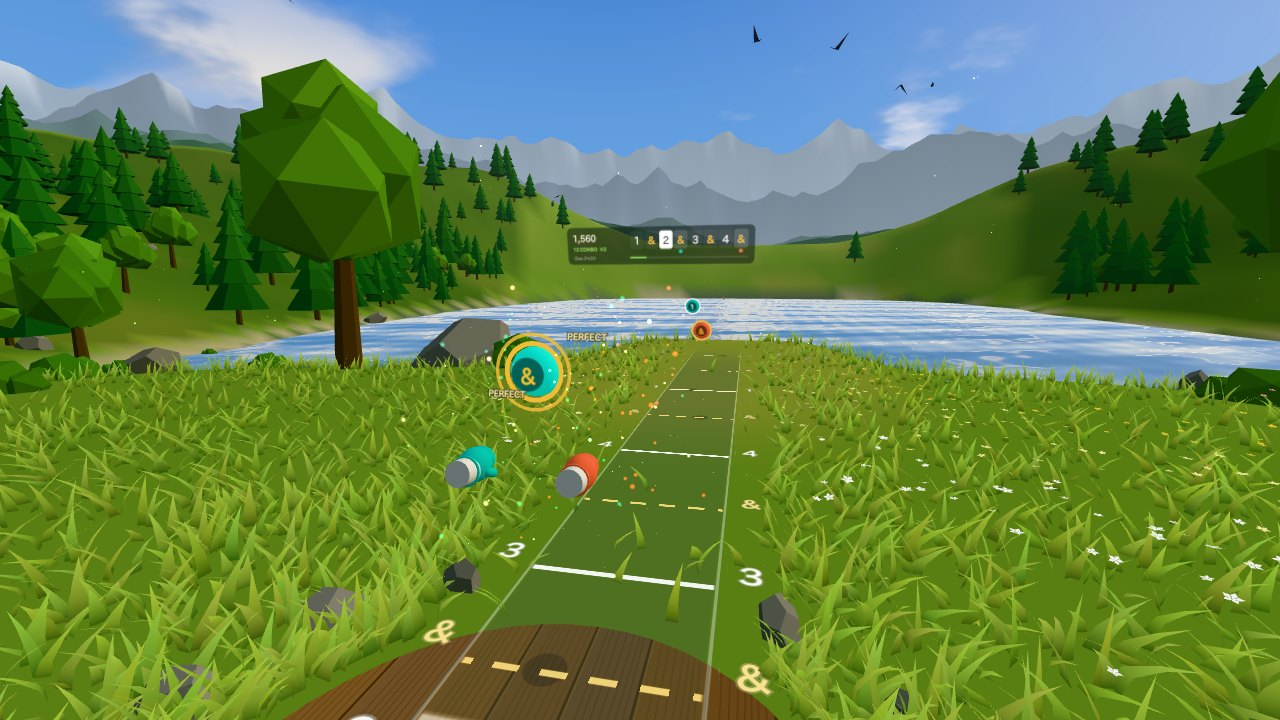
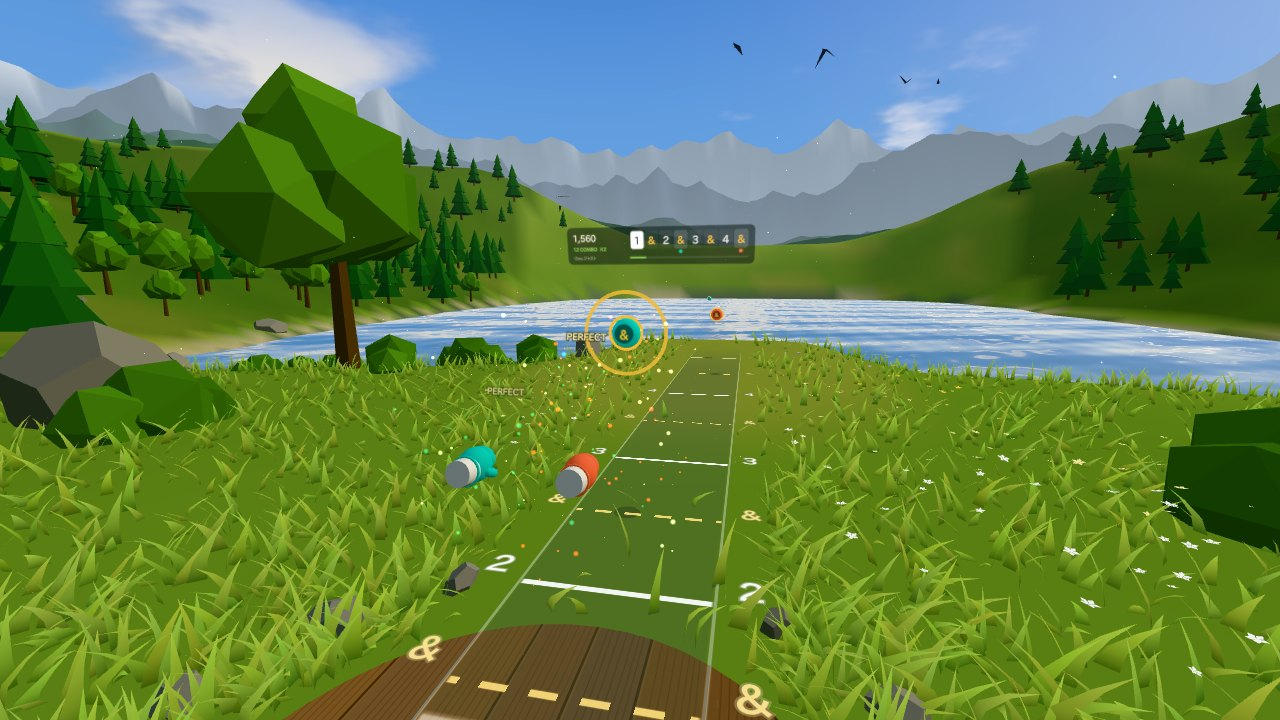
OFFBEAT GROVE: lighter forest and meadow for Quest 3 at 90 Hz
About 250k triangles and 40 draw calls per eye while playing (low: 180k).

Claude-Session: https://claude.ai/code/session_01H98kDxnrHuErgnfDtvcigN

diff --git a/offbeat-grove/js/world.js b/offbeat-grove/js/world.js
@@ -4,7 +4,8 @@
 // distance at every scale: grass and flowers at your feet (stereo depth), the forest on both hillsides,
 // the lake, then the ridges fading into the haze.
 //
-// Budget for Quest 3 at 90 Hz: ~30 draw calls, ~250k triangles, no shadows, no post-processing.
+// Budget for Quest 3 at 90 Hz: ~40 draw calls and ~250k triangles per eye with the game running ("low": ~170k),
+// no shadows, no post-processing.
 // Lambert lighting on trees and rocks, everything else has its light baked into vertex colours.
 import * as THREE from 'three';
 import { bakeSky, skyDome, SKY_UV } from './sky.js';
@@ -64,8 +65,8 @@ export class World {
     this.addMountains();
     this.addLake();
     this.addTrees(hi ? 1 : 0.55);
-    this.addGrass(hi ? 13000 : 6500);
-    this.addFlowers(hi ? 2400 : 1200);
+    this.addGrass(hi ? 10000 : 6000);
+    this.addFlowers(hi ? 1800 : 1000);
     this.addRocks();
     this.addDeck();
     this.addBirds();
@@ -247,11 +248,10 @@ export class World {
     const R = this.R;
     // conifer: trunk + four cones, faceted
     const con = mergeGeos([
-      colored(new THREE.CylinderGeometry(0.1, 0.16, 1.6, 6).translate(0, 0.8, 0), '#5a3d28'),
-      colored(new THREE.ConeGeometry(1.5, 2.4, 7).translate(0, 2.0, 0), '#2f5a32'),
-      colored(new THREE.ConeGeometry(1.22, 2.1, 7).translate(0, 3.1, 0), '#356637'),
-      colored(new THREE.ConeGeometry(0.92, 1.8, 7).translate(0, 4.1, 0), '#3b7039'),
-      colored(new THREE.ConeGeometry(0.55, 1.3, 7).translate(0, 5.0, 0), '#43793d'),
+      colored(new THREE.CylinderGeometry(0.1, 0.16, 1.6, 5, 1, true).translate(0, 0.8, 0), '#5a3d28'),
+      colored(new THREE.ConeGeometry(1.5, 2.6, 6).translate(0, 2.1, 0), '#2f5a32'),
+      colored(new THREE.ConeGeometry(1.12, 2.3, 6).translate(0, 3.4, 0), '#366838'),
+      colored(new THREE.ConeGeometry(0.7, 1.9, 6).translate(0, 4.6, 0), '#40763c'),
     ]);
     // broadleaf: trunk + clustered blobs
     const leaf = (r, x, y, z, c) => colored(new THREE.IcosahedronGeometry(r, 0).translate(x, y, z), c);
@@ -279,7 +279,7 @@ export class World {
       this.scene.add(im);
       return im;
     };
-    const conPts = this.scatter(Math.round(1500 * k), 14, 236, (x, z) => forestAt(x, z) * (0.45 + 0.55 * smoothstep(20, 60, Math.abs(x) + Math.max(0, z))), 1.1);
+    const conPts = this.scatter(Math.round(1150 * k), 14, 236, (x, z) => forestAt(x, z) * (0.45 + 0.55 * smoothstep(20, 60, Math.abs(x) + Math.max(0, z))), 1.1);
     place(con, conPts, 1.0, 2.6, [0.3, 0.06]);
     const brdPts = this.scatter(Math.round(320 * k), 12, 150, (x, z) => forestAt(x, z) * (1 - smoothstep(40, 120, Math.hypot(x, z)) * 0.7), 1.6);
     // trees that frame the view near the clearing
